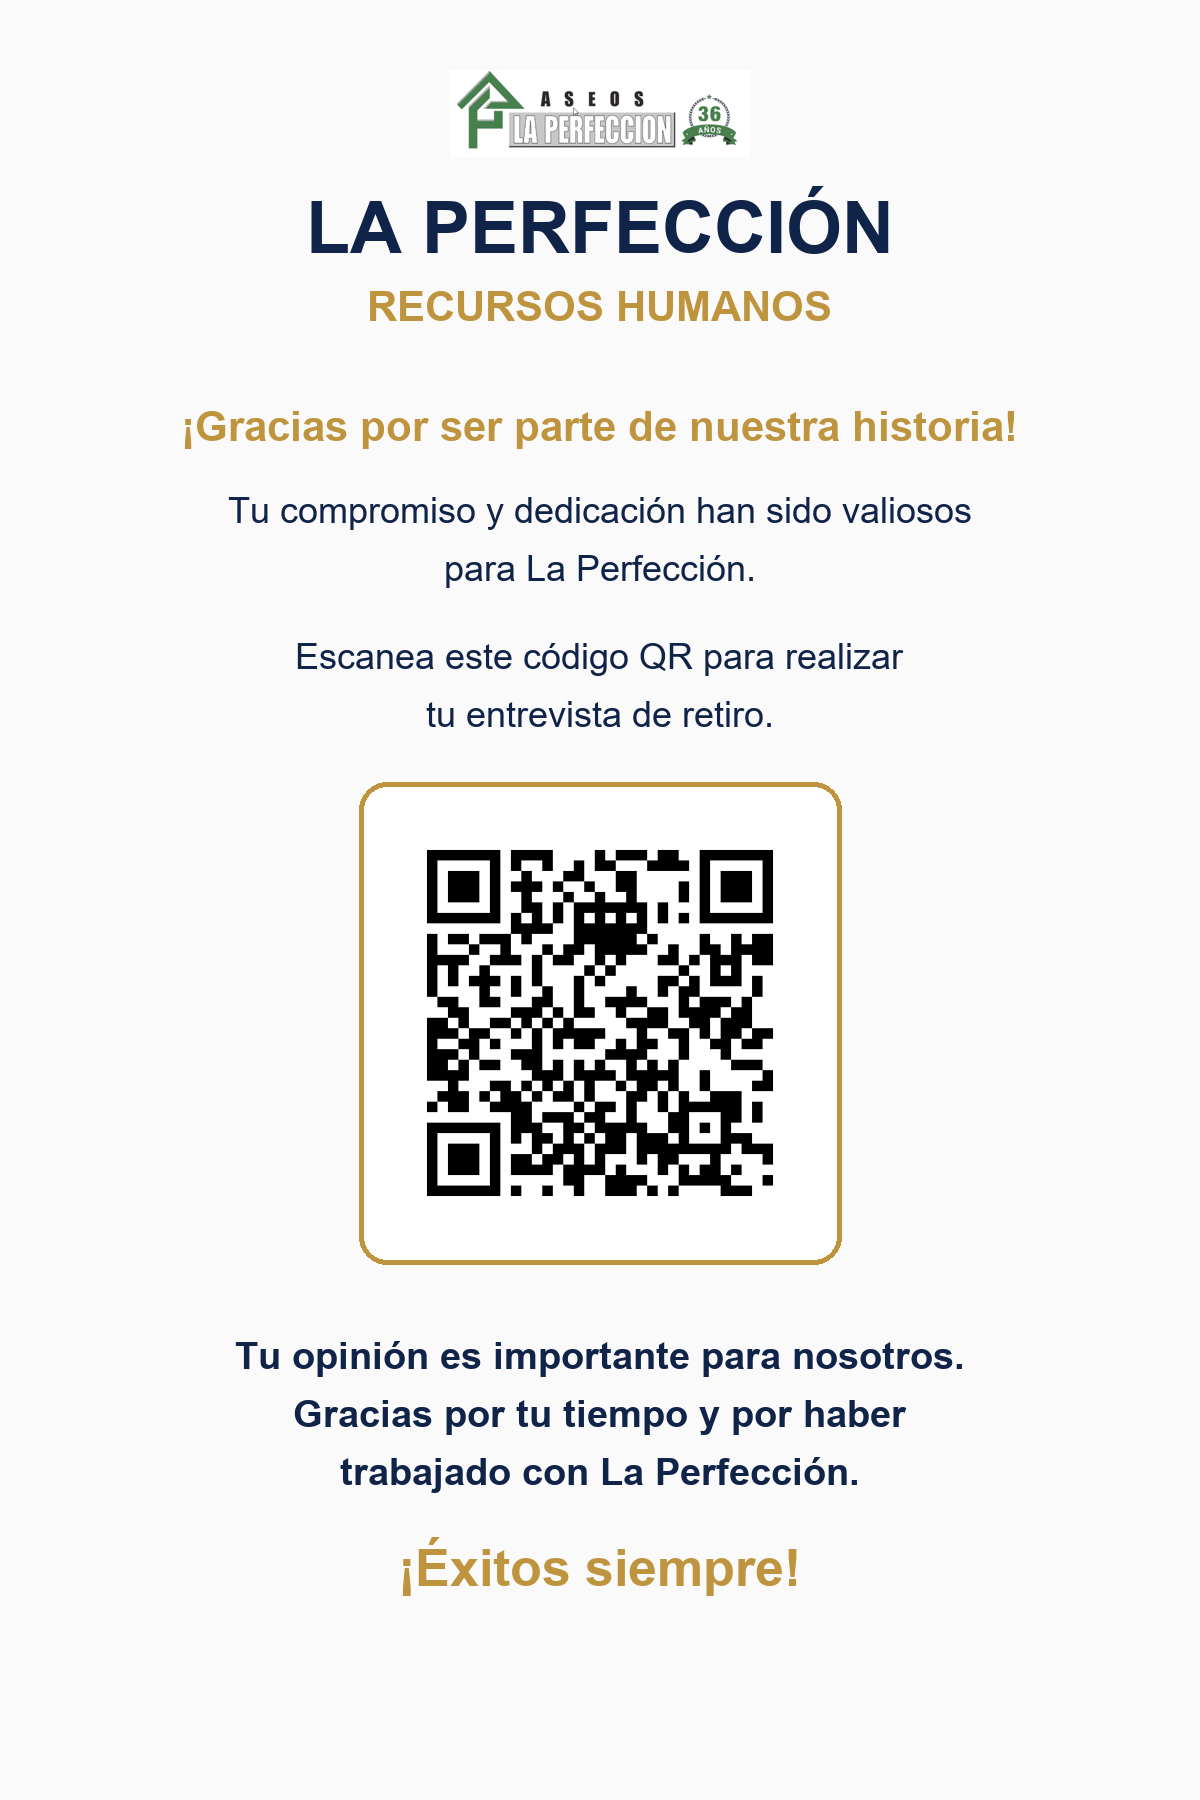
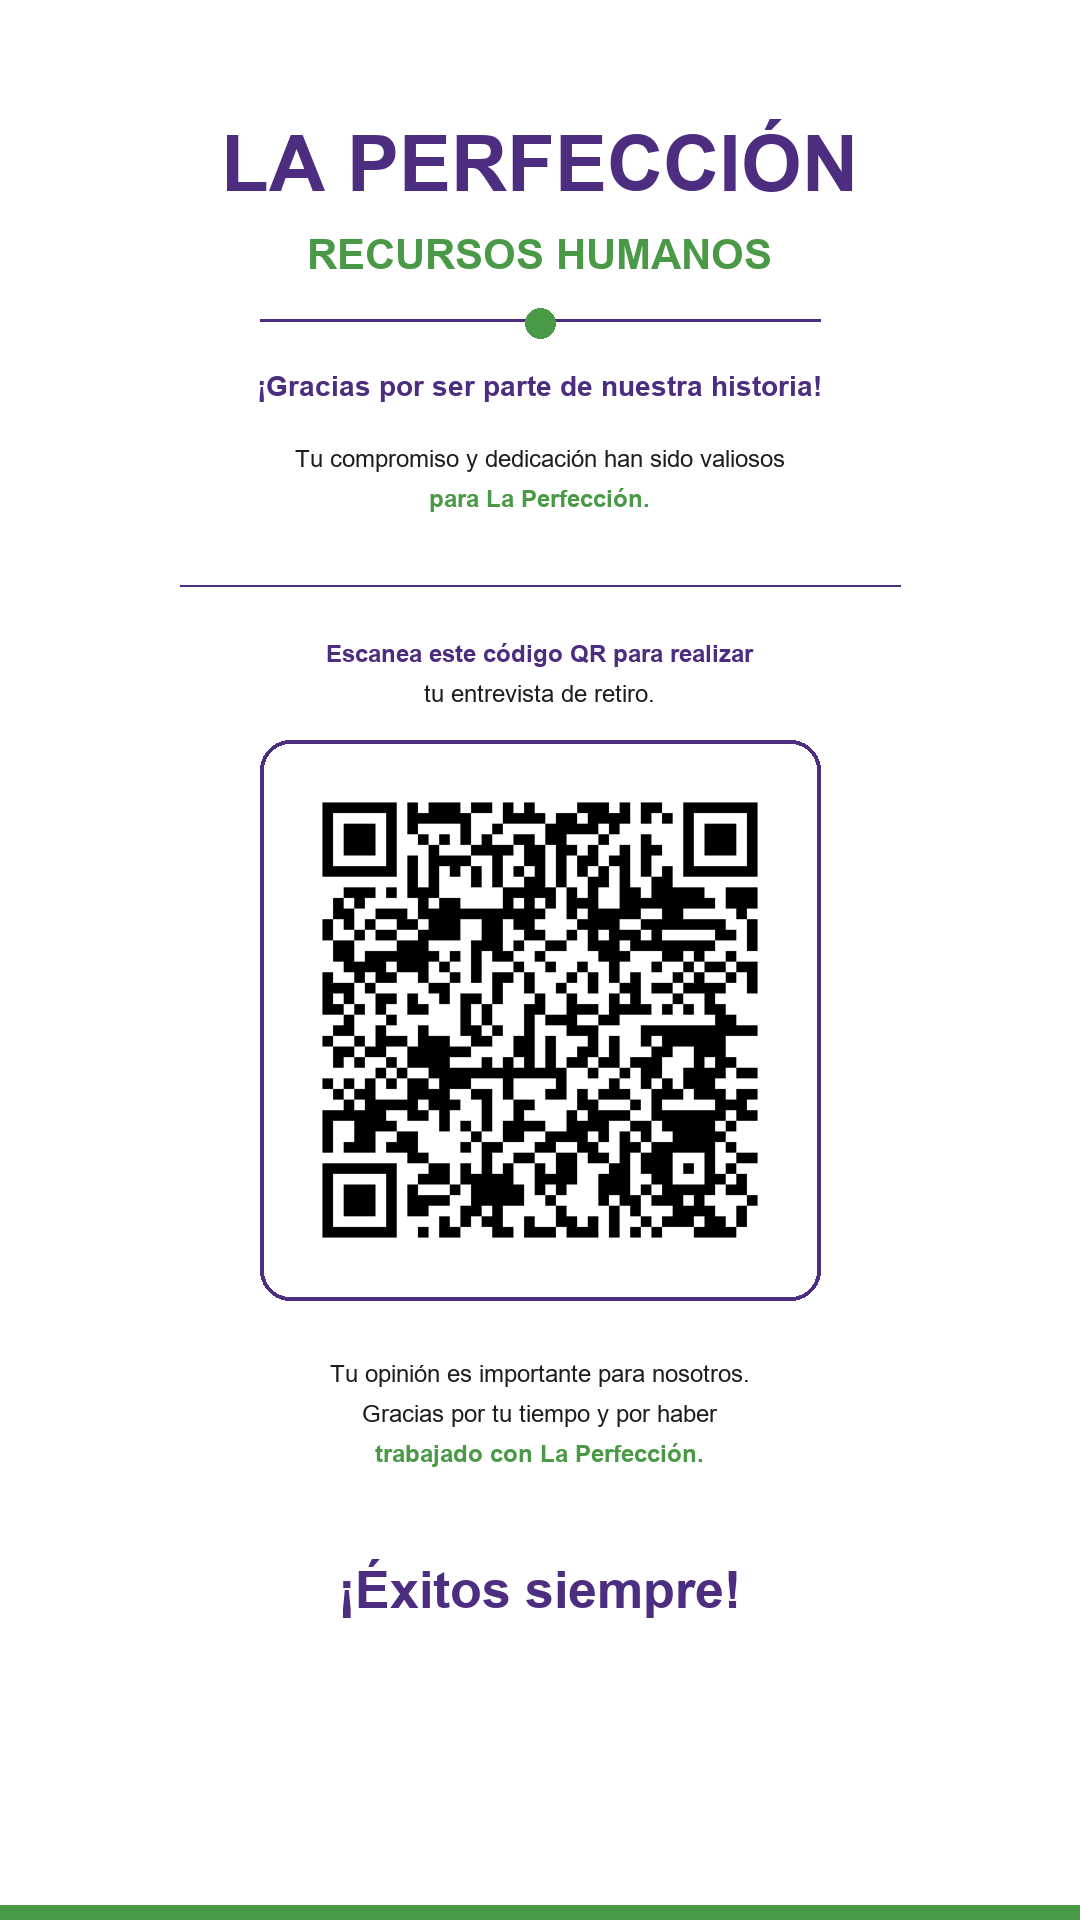
se genera el nuevo qr para qa entrevista de retiro

Changed region(s): [[0.1528, 0.0311, 0.8556, 0.9022], [0.0, 0.9644, 1.0, 1.0], [0.2139, 0.4044, 0.2444, 0.6533]]

diff --git a/generar_poster_qr_qa.py b/generar_poster_qr_qa.py
@@ -1,196 +1,130 @@
 from PIL import Image, ImageDraw, ImageFont
-import os
 
-# ----------------------------
-# RUTAS
-# ----------------------------
-QR_PATH = "qr_entrevista_retiro_qa.png"
-LOGO_PATH = "app/utilidades/img/logo/LOGO_EMPRESA.png"
-OUTPUT_PATH = "poster_qr_entrevista_retiro_qa.png"
+# =========================
+# CONFIG
+# =========================
+ANCHO = 1080
+ALTO = 1920
+COLOR_FONDO = "white"
+COLOR_MORADO = (77, 45, 127)
+COLOR_VERDE = (74, 153, 70)
+COLOR_NEGRO = (30, 30, 30)
 
-# ----------------------------
-# FUNCION PARA CARGAR FUENTES
-# ----------------------------
+RUTA_QR = "qr_qa_bueno.png"
+SALIDA = "poster_qr_entrevista_retiro_qa.png"
+
+# =========================
+# FUNCIONES
+# =========================
 def cargar_fuente(tamano, negrita=False):
     posibles = []
-
     if negrita:
         posibles = [
-            r"C:\Windows\Fonts\arialbd.ttf",
-            r"C:\Windows\Fonts\calibrib.ttf",
-            r"C:\Windows\Fonts\segoeuib.ttf",
+            "C:/Windows/Fonts/arialbd.ttf",
+            "C:/Windows/Fonts/calibrib.ttf",
+            "C:/Windows/Fonts/segoeuib.ttf",
         ]
     else:
         posibles = [
-            r"C:\Windows\Fonts\arial.ttf",
-            r"C:\Windows\Fonts\calibri.ttf",
-            r"C:\Windows\Fonts\segoeui.ttf",
+            "C:/Windows/Fonts/arial.ttf",
+            "C:/Windows/Fonts/calibri.ttf",
+            "C:/Windows/Fonts/segoeui.ttf",
         ]
 
     for ruta in posibles:
-        if os.path.exists(ruta):
+        try:
             return ImageFont.truetype(ruta, tamano)
+        except:
+            pass
 
     return ImageFont.load_default()
 
-# ----------------------------
-# VALIDACIONES
-# ----------------------------
-print("QR_PATH:", QR_PATH, os.path.exists(QR_PATH))
-print("LOGO_PATH:", LOGO_PATH, os.path.exists(LOGO_PATH))
 
-if not os.path.exists(QR_PATH):
-    raise FileNotFoundError(f"No existe el archivo QR: {QR_PATH}")
+def texto_centrado(draw, texto, fuente, color, y, ancho_total):
+    bbox = draw.textbbox((0, 0), texto, font=fuente)
+    w = bbox[2] - bbox[0]
+    x = (ancho_total - w) // 2
+    draw.text((x, y), texto, font=fuente, fill=color)
 
-# ----------------------------
-# COLORES
-# ----------------------------
-BLANCO = (250, 250, 250)
-AZUL = (16, 35, 72)
-DORADO = (190, 148, 62)
 
-# ----------------------------
+# =========================
 # LIENZO
-# ----------------------------
-ancho, alto = 1200, 1800
-img = Image.new("RGB", (ancho, alto), BLANCO)
+# =========================
+img = Image.new("RGB", (ANCHO, ALTO), COLOR_FONDO)
 draw = ImageDraw.Draw(img)
 
-# ----------------------------
+# =========================
 # FUENTES
-# ----------------------------
-fuente_titulo = cargar_fuente(72, negrita=True)
+# =========================
+fuente_logo = cargar_fuente(42, negrita=True)
+fuente_titulo = cargar_fuente(78, negrita=True)
 fuente_subtitulo = cargar_fuente(42, negrita=True)
-fuente_texto = cargar_fuente(36, negrita=False)
-fuente_texto_bold = cargar_fuente(38, negrita=True)
-fuente_footer = cargar_fuente(52, negrita=True)
+fuente_frase = cargar_fuente(28, negrita=True)
+fuente_texto = cargar_fuente(24, negrita=False)
+fuente_texto_bold = cargar_fuente(24, negrita=True)
+fuente_exito = cargar_fuente(52, negrita=True)
 
-# ----------------------------
-# POSICIÓN INICIAL
-# ----------------------------
-y_actual = 70
+# =========================
+# CABECERA
+# =========================
+texto_centrado(draw, "LA PERFECCIÓN", fuente_titulo, COLOR_MORADO, 120, ANCHO)
+texto_centrado(draw, "RECURSOS HUMANOS", fuente_subtitulo, COLOR_VERDE, 230, ANCHO)
 
-# ----------------------------
-# LOGO
-# ----------------------------
-if os.path.exists(LOGO_PATH):
-    logo = Image.open(LOGO_PATH).convert("RGBA")
-    logo.thumbnail((300, 300))
+# Línea decorativa
+draw.line((260, 320, 820, 320), fill=COLOR_MORADO, width=3)
+draw.ellipse((525, 308, 555, 338), fill=COLOR_VERDE)
 
-    logo_x = (ancho - logo.width) // 2
-    img.paste(logo, (logo_x, y_actual), logo)
+# =========================
+# MENSAJES
+# =========================
+texto_centrado(draw, "¡Gracias por ser parte de nuestra historia!", fuente_frase, COLOR_MORADO, 370, ANCHO)
 
-    y_actual += logo.height + 30
-else:
-    print(f"No se encontró el logo en: {LOGO_PATH}")
+texto_centrado(draw, "Tu compromiso y dedicación han sido valiosos", fuente_texto, COLOR_NEGRO, 445, ANCHO)
+texto_centrado(draw, "para La Perfección.", fuente_texto_bold, COLOR_VERDE, 485, ANCHO)
 
-# ----------------------------
-# TÍTULOS
-# ----------------------------
-titulo = "LA PERFECCIÓN"
-subtitulo = "RECURSOS HUMANOS"
+# línea
+draw.line((180, 585, 900, 585), fill=COLOR_MORADO, width=2)
 
-bbox = draw.textbbox((0, 0), titulo, font=fuente_titulo)
-tw = bbox[2] - bbox[0]
-draw.text(((ancho - tw) // 2, y_actual), titulo, fill=AZUL, font=fuente_titulo)
-y_actual += 95
+# texto previo al QR
+texto_centrado(draw, "Escanea este código QR para realizar", fuente_texto_bold, COLOR_MORADO, 640, ANCHO)
+texto_centrado(draw, "tu entrevista de retiro.", fuente_texto, COLOR_NEGRO, 680, ANCHO)
 
-bbox = draw.textbbox((0, 0), subtitulo, font=fuente_subtitulo)
-sw = bbox[2] - bbox[0]
-draw.text(((ancho - sw) // 2, y_actual), subtitulo, fill=DORADO, font=fuente_subtitulo)
-y_actual += 120
-
-# ----------------------------
-# MENSAJE SUPERIOR
-# ----------------------------
-lineas = [
-    "¡Gracias por ser parte de nuestra historia!",
-    "",
-    "Tu compromiso y dedicación han sido valiosos",
-    "para La Perfección.",
-    "",
-    "Escanea este código QR para realizar",
-    "tu entrevista de retiro.",
-]
-
-for linea in lineas:
-    if "Gracias" in linea:
-        font = fuente_subtitulo
-        color = DORADO
-    else:
-        font = fuente_texto
-        color = AZUL
-
-    bbox = draw.textbbox((0, 0), linea, font=font)
-    lw = bbox[2] - bbox[0]
-    draw.text(((ancho - lw) // 2, y_actual), linea, fill=color, font=font)
-
-    if linea == "":
-        y_actual += 30
-    else:
-        y_actual += 58
-
-y_actual += 30
-
-# ----------------------------
+# =========================
 # QR
-# ----------------------------
-qr = Image.open(QR_PATH).convert("RGB")
-qr = qr.resize((430, 430))
+# =========================
+qr = Image.open(RUTA_QR).convert("RGB")
+qr = qr.resize((520, 520))
 
-marco_padding = 26
-marco_x = (ancho - (430 + marco_padding * 2)) // 2
-marco_y = y_actual
+qr_x = (ANCHO - 520) // 2
+qr_y = 760
 
+# marco
 draw.rounded_rectangle(
-    [
-        marco_x,
-        marco_y,
-        marco_x + 430 + marco_padding * 2,
-        marco_y + 430 + marco_padding * 2,
-    ],
-    radius=28,
-    outline=DORADO,
-    width=5,
-    fill=(255, 255, 255),
+    (qr_x - 20, qr_y - 20, qr_x + 540, qr_y + 540),
+    radius=30,
+    outline=COLOR_MORADO,
+    width=4
 )
 
-qr_x = marco_x + marco_padding
-qr_y = marco_y + marco_padding
 img.paste(qr, (qr_x, qr_y))
 
-y_actual = marco_y + 430 + marco_padding * 2 + 70
+# =========================
+# TEXTO FINAL
+# =========================
+texto_centrado(draw, "Tu opinión es importante para nosotros.", fuente_texto, COLOR_NEGRO, 1360, ANCHO)
+texto_centrado(draw, "Gracias por tu tiempo y por haber", fuente_texto, COLOR_NEGRO, 1400, ANCHO)
+texto_centrado(draw, "trabajado con La Perfección.", fuente_texto_bold, COLOR_VERDE, 1440, ANCHO)
 
-# ----------------------------
-# MENSAJE INFERIOR
-# ----------------------------
-lineas_finales = [
-    "Tu opinión es importante para nosotros.",
-    "Gracias por tu tiempo y por haber",
-    "trabajado con La Perfección.",
-    "",
-    "¡Éxitos siempre!",
-]
+texto_centrado(draw, "¡Éxitos siempre!", fuente_exito, COLOR_MORADO, 1560, ANCHO)
 
-for linea in lineas_finales:
-    if "Éxitos" in linea:
-        font = fuente_footer
-        color = DORADO
-    else:
-        font = fuente_texto_bold
-        color = AZUL
+# =========================
+# BASE DECORATIVA
+# =========================
+draw.pieslice((-200, 1660, 1280, 2150), start=0, end=180, fill=COLOR_VERDE)
+draw.pieslice((-200, 1690, 1280, 2180), start=0, end=180, fill=COLOR_MORADO)
 
-    bbox = draw.textbbox((0, 0), linea, font=font)
-    lw = bbox[2] - bbox[0]
-    draw.text(((ancho - lw) // 2, y_actual), linea, fill=color, font=font)
-
-    if linea == "":
-        y_actual += 30
-    else:
-        y_actual += 58
-
-# ----------------------------
+# =========================
 # GUARDAR
-# ----------------------------
-img.save(OUTPUT_PATH)
-print(f"Poster generado correctamente: {OUTPUT_PATH}")
+# =========================
+img.save(SALIDA)
+print(f"Póster generado correctamente: {SALIDA}")

diff --git a/generar_qr_qa.py b/generar_qr_qa.py
@@ -2,8 +2,17 @@ import qrcode
 
 url = "https://qa.laperfeccion.app/entrevista-retiro-publica"
 
-img = qrcode.make(url)
+qr = qrcode.QRCode(
+    version=1,
+    error_correction=qrcode.constants.ERROR_CORRECT_H,
+    box_size=20,  # calidad alta
+    border=4,
+)
 
-img.save("qr_entrevista_retiro_qa.png")
+qr.add_data(url)
+qr.make(fit=True)
+
+img = qr.make_image(fill_color="black", back_color="white")
+img.save("qr_qa_bueno.png")
 
 print("QR generado correctamente")
